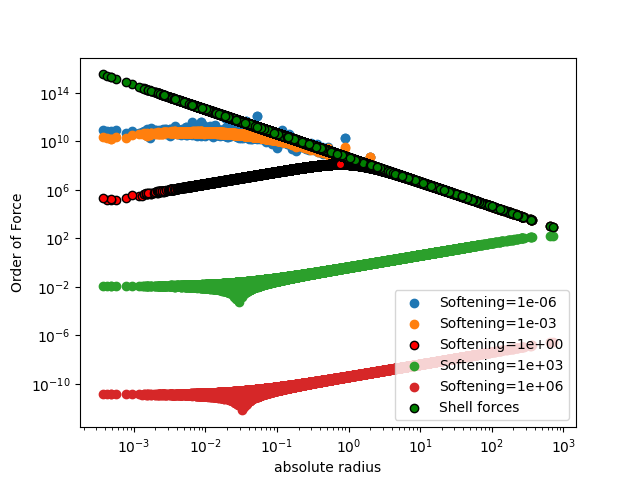
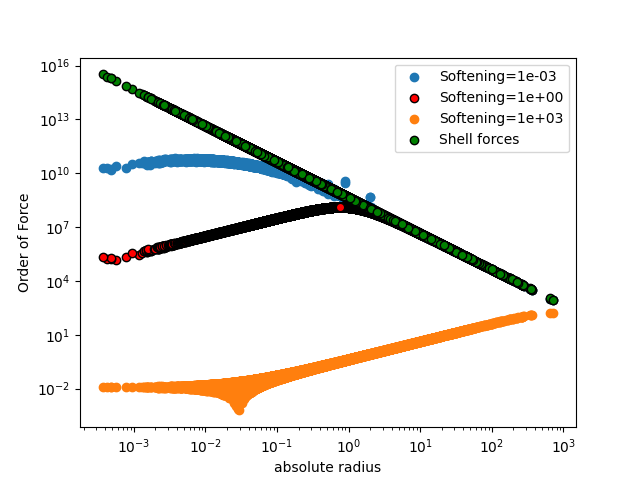
Tree code is up and running

diff --git a/n_body_project/exp_tree_code.py b/n_body_project/exp_tree_code.py
@@ -1,6 +1,8 @@
 import matplotlib.pyplot as plt
 import numpy as np
 
+from n_body_shells import max_radius
+
 
 # start out with a quadtree to get the idea
 # TODO when it is running as it should, expand it to an OctTree
@@ -17,6 +19,7 @@ class Point:
 
 		self.x_accel = 0
 		self.y_accel = 0
+		self.z_accel = 0
 
 	def __str__(self):
 		return f"Point {self.ident}: {self.x}, {self.y}, {self.z}"
@@ -26,7 +29,7 @@ class Point:
 
 
 class OctTreeNode:
-	def __init__(self, xmin, ymin, zmin, xmax, ymax, zmax):
+	def __init__(self, xmin, ymin, zmin, xmax, ymax, zmax, theta):
 		self.xmin = xmin
 		self.ymin = ymin
 		self.zmin = zmin
@@ -45,8 +48,11 @@ class OctTreeNode:
 
 		self.points = []
 		self.children = []
+
 		self.max_items = 1
-		self.theta = 0.5
+		self.theta = theta
+		self.s = self.xmax - self.xmid
+
 
 	def add_point(self, point):
 		# check if the current node is full
@@ -71,14 +77,14 @@ class OctTreeNode:
 	def split_node(self):
 
 		# this makes the tree recursive
-		self.children.append(OctTreeNode(self.xmin, self.ymin, self.zmin, self.xmid, self.ymid, self.zmid))
-		self.children.append(OctTreeNode(self.xmin, self.ymid, self.zmin, self.xmid, self.ymax, self.zmid))
-		self.children.append(OctTreeNode(self.xmid, self.ymid, self.zmin, self.xmax, self.ymax, self.zmid))
-		self.children.append(OctTreeNode(self.xmid, self.ymin, self.zmin, self.xmax, self.ymid, self.zmid))
-		self.children.append(OctTreeNode(self.xmin, self.ymin, self.zmid, self.xmid, self.ymid, self.zmax))
-		self.children.append(OctTreeNode(self.xmin, self.ymid, self.zmid, self.xmid, self.ymax, self.zmax))
-		self.children.append(OctTreeNode(self.xmid, self.ymid, self.zmid, self.xmax, self.ymax, self.zmax))
-		self.children.append(OctTreeNode(self.xmid, self.ymin, self.zmid, self.xmax, self.ymid, self.zmax))
+		self.children.append(OctTreeNode(self.xmin, self.ymin, self.zmin, self.xmid, self.ymid, self.zmid, self.theta))
+		self.children.append(OctTreeNode(self.xmin, self.ymid, self.zmin, self.xmid, self.ymax, self.zmid, self.theta))
+		self.children.append(OctTreeNode(self.xmid, self.ymid, self.zmin, self.xmax, self.ymax, self.zmid, self.theta))
+		self.children.append(OctTreeNode(self.xmid, self.ymin, self.zmin, self.xmax, self.ymid, self.zmid, self.theta))
+		self.children.append(OctTreeNode(self.xmin, self.ymin, self.zmid, self.xmid, self.ymid, self.zmax, self.theta))
+		self.children.append(OctTreeNode(self.xmin, self.ymid, self.zmid, self.xmid, self.ymax, self.zmax, self.theta))
+		self.children.append(OctTreeNode(self.xmid, self.ymid, self.zmid, self.xmax, self.ymax, self.zmax, self.theta))
+		self.children.append(OctTreeNode(self.xmid, self.ymin, self.zmid, self.xmax, self.ymid, self.zmax, self.theta))
 
 		# divide points onto the nodes
 		for current_points in self.points:
@@ -86,9 +92,6 @@ class OctTreeNode:
 
 		# reset the point list to 0
 		self.points = None # with setting it to None, it makes it an internal node
-
-		# calculate the center of mass for each node (child) -> each child has a center of mass and a total mass
-		#self.update_center_of_mass()
 
 	def add_point_to_child(self, point):
 		# add a given point to the correct child
@@ -120,7 +123,7 @@ class OctTreeNode:
 		y_com = 0
 		z_com = 0
 
-		for child in self.children:
+		for child in self.children: # FIXME I don't think that works like this for the COM
 			total_mass += child.total_mass
 			x_com += child.x_com * child.total_mass
 			y_com += child.y_com * child.total_mass
@@ -138,40 +141,163 @@ class OctTreeNode:
 
 		return self.total_mass, self.x_com, self.y_com
 
+	def calculate_acceleration(self, point):
+		"""Calculate the acceleration acting on a particle
+		The particle has to be added from the main file
+		loop over them to calculate the acceration for each particle"""
 
-# Implementation
-def plot_quadtree(node, ax=None):
-	if ax is None:
-		_, ax = plt.subplots()
-#
-	ax.plot([node.xmin, node.xmin, node.xmax, node.xmax, node.xmin],
-			[node.ymin, node.ymax, node.ymax, node.ymin, node.ymin], color='black')
-#
-	for child in node.children:
-		plot_quadtree(child, ax)
+		# if the current node is an external node and it is not body b
+		# then the node has no children, but contains a point
+		if self.points is not None and len(self.points) > 0 and point.ident is not self.points[0].ident:
+			rx = point.x - self.points[0].x
+			ry = point.y - self.points[0].y
+			rz = point.z - self.points[0].z
 
-	if node.points is not None:
-		for point in node.points:
-			ax.plot(point.x, point.y, 'ro')
-#
-	ax.set_xlim(0, 100)
-	ax.set_ylim(0, 100)
-	ax.set_aspect('equal', adjustable='box')
-#
-#
-quadtree = OctTreeNode(xmin=0, ymin=0, xmax=100, ymax=100, zmin=0, zmax=100)
-points_list = [(10, 10, 3, 1, 1), (20, 20, 4, 1, 1), (5, 5, 5, 1, 1), (90, 90, 6, 1, 1), (15, 15, 7, 1, 1), (30, 30, 8, 1, 1),
-			   (1, 1, 1, 1, 1), (1, 40, 1, 1, 1), (20, 40, 1, 1, 1), (1, 49, 1, 1, 1)]
-#
-for point_coords in points_list:
-	point = Point(*point_coords)
-	quadtree.add_point(point)
+			abs_r = np.sqrt(rx**2 + ry**2 + rz**2)
 
-print(quadtree.total_mass)
-#
-plot_quadtree(quadtree)
-plt.show()
-#
+			# no multiplication with G, as G = 1
+
+			acc_x = - (self.points[0].mass / abs_r**3) * rx
+			acc_y = - (self.points[0].mass / abs_r**3) * ry
+			acc_z = - (self.points[0].mass / abs_r**3) * rz
+
+			point.x_accel += acc_x
+			point.y_accel += acc_y
+			point.z_accel += acc_z
+
+			return point.x_accel, point.y_accel, point.z_accel
+
+		# the point is internal and has children
+		# children that do not have children or a particle do not count towards the
+		# acceleration
+		else:
+			# calculate the distance between the particle and nodes center of mass
+			dx = point.x - self.x_com
+			dy = point.y - self.y_com
+			dz = point.z - self.z_com
+
+			d_abs = np.sqrt(dx**2 + dy**2 + dz**2)
+
+			# check if the threshold value is no exceeded by the ratio
+			# if d_abs == 0 -> is the its own point
+			if d_abs > 0 and self.s / d_abs < self.theta:
+				# treat thread like a single body and calculate the acceleration experienced
+				# as the acceleration from the nodes COM and total mass
+				acc_x = - (self.total_mass / d_abs ** 3) * dx
+				acc_y = - (self.total_mass / d_abs ** 3) * dy
+				acc_z = - (self.total_mass / d_abs ** 3) * dz
+
+				point.x_accel += acc_x
+				point.y_accel += acc_y
+				point.z_accel += acc_z
+
+				return point.x_accel, point.y_accel, point.z_accel
+
+			else:
+				for child in self.children:
+					child.calculate_acceleration(point)
+
+
+def print_tree(root, level=0):
+	"""recursively print the tree structure"""
+	if root.points is not None and len(root.points) > 0:
+		ide = root.points[0].ident
+	else:
+		ide = "none"
+	print(f"{'  ' * level} level: {level}, mass: {root.total_mass}, number of children: {len(root.children)}, point ID: {ide}")
+	for child in root.children:
+		print_tree(child, level + 1)
+
+
+def opening_angles(start, stop, n_angles):
+	"""get a list of opening angles for the tree code"""
+
+	if not (0 <= start <= 1 and 0 <= stop <= 1):
+		raise ValueError("Start and Stop have to be between 0 and 1")
+
+	angles = np.linspace(start, stop, n_angles)
+
+	angles = list(angles)
+
+	return angles
+
+
+def tree_code_forces(x_coordinates, y_coordinates, z_coordinates, masses, part_number, theta):
+	"""calculate the forces with the tree code and associate them with
+	the according radii again"""
+
+	radii, maximal_radius = max_radius(x_coordinates, y_coordinates, z_coordinates)
+
+	# create an empty array for the accelerations
+	ax_accel, ay_accel, az_accel = np.zeros_like(x_coordinates), np.zeros_like(y_coordinates), np.zeros_like(z_coordinates)
+
+	print("Start tree generation")
+
+	# QUESTION should other min and max values be used -> this won't give a square otherwise -> influences the subdivision
+	octtree = OctTreeNode(xmin=np.min(radii), ymin=np.min(radii), zmin=np.min(radii),
+						  xmax=np.max(radii), ymax=np.max(radii), zmax=np.max(radii), theta=theta)
+
+	# get the points into an appropriate format
+	point_coordinates = [(x_coordinates[i], y_coordinates[i], z_coordinates[i], masses[i], part_number[i]) for i in range(len(x_coordinates))]
+
+	count = 0
+	# built the tree and add the particles
+	for point in range(len(point_coordinates)):
+		count += 1
+		#print(f"Calculating particle {point}")
+		point = Point(*point_coordinates[point])
+		octtree.add_point(point)
+
+	# calculate the forces for each particle
+	for point_cords in range(len(point_coordinates)):
+		print(point_cords)
+		point = Point(*point_coordinates[point_cords])
+		acc = octtree.calculate_acceleration(point)
+		ax_accel[point_cords] = point.x_accel
+		ay_accel[point_cords] = point.y_accel
+		az_accel[point_cords] = point.z_accel
+
+	Fx = ax_accel * masses
+	Fy = ay_accel * masses
+	Fz = az_accel * masses
+	abs_F = np.sqrt(Fx ** 2 + Fy ** 2 + Fz ** 2)
+
+	abs_r = np.sqrt(x_coordinates ** 2 + y_coordinates ** 2 + z_coordinates ** 2)
+
+	accelerations = (ax_accel, ay_accel, az_accel)
+
+	return abs_F, abs_r, accelerations
+
+
+def repetitive_tree_code(x_coordinates, y_coordinates, z_coordinates, masses, part_number, opening_angles):
+	"""calculate the forces with the tree code several times for different opening angles"""
+
+	print("Start Tree Force plotting")
+
+	tree_plot, ax_tree_plot = plt.subplots()
+
+	for theta in opening_angles:
+		abs_F, abs_r, accelerations = tree_code_forces(x_coordinates, y_coordinates, z_coordinates, masses, part_number, theta)
+		F_abs_sort = np.rec.fromarrays([abs_F, abs_r], dtype=np.dtype([('abs_F', np.float64), ('abs_r', np.float64)]))
+		F_abs_sort.sort()
+
+		# extract the sorted arrays to use them for plotting
+		r_abs_sort = F_abs_sort.abs_r
+		F_abs_sort = F_abs_sort.abs_F
+
+		ax_tree_plot.scatter(r_abs_sort, F_abs_sort, label=f"theta={theta}")
+
+	ax_tree_plot.legend()
+	ax_tree_plot.set_xlabel("Absolute Radius")
+	ax_tree_plot.set_ylabel("Forces (Tree Code)")
+	ax_tree_plot.set_xscale("log")
+	ax_tree_plot.set_yscale("log")
+
+	print("End Tree Force plotting")
+
+	return tree_plot
+
+
 
 
 

diff --git a/n_body_project/main.py b/n_body_project/main.py
@@ -35,7 +35,7 @@ plt.close(particle_density_plot)
 """
 # ------------------------------------------------------------------------------
 # Task 1: Step 2
-"""
+
 # calculate half-total_mass radius
 hmr, half_mass = half_mass_radius(x_cord, y_cord, z_cord, mass)
 
@@ -83,25 +83,16 @@ plt.close(fig)
 rel_time, cross_time = relaxation_time(len(particle_number), half_mass, hmr)
 print(f"relaxation time: {rel_time}, crossing time: {cross_time}")
 
-"""
-#-------------------------------------------------------------------------------
+# -------------------------------------------------------------------------------
 # Task 2: Tree code
 
-octtree = OctTreeNode(xmin=np.min(x_cord), ymin=np.min(y_cord), zmin=np.min(z_cord), xmax=np.max(x_cord), ymax=np.max(y_cord), zmax=np.max(z_cord))
-point_coordinates = [(x_cord[i], y_cord[i], z_cord[i], mass[i], particle_number[i]) for i in range(len(x_cord))]
-point_coordinates = point_coordinates[::100]
-print(len(point_coordinates))
-print(point_coordinates)
+angles = opening_angles(0.4, 0.8, 2)
 
-count = 0
-for point in range(len(point_coordinates)):
-	count += 1
-	print(f"Calculating particle {point}")
-	point = Point(*point_coordinates[point])
-	octtree.add_point(point)
+tree_plots = repetitive_tree_code(x_cord, y_cord, z_cord, mass, particle_number, angles)
 
-print(count)
-print(octtree.total_mass)
+tree_plots.savefig("n_body_project/plots/tree.png")
+
+print("end")
 
 
 
